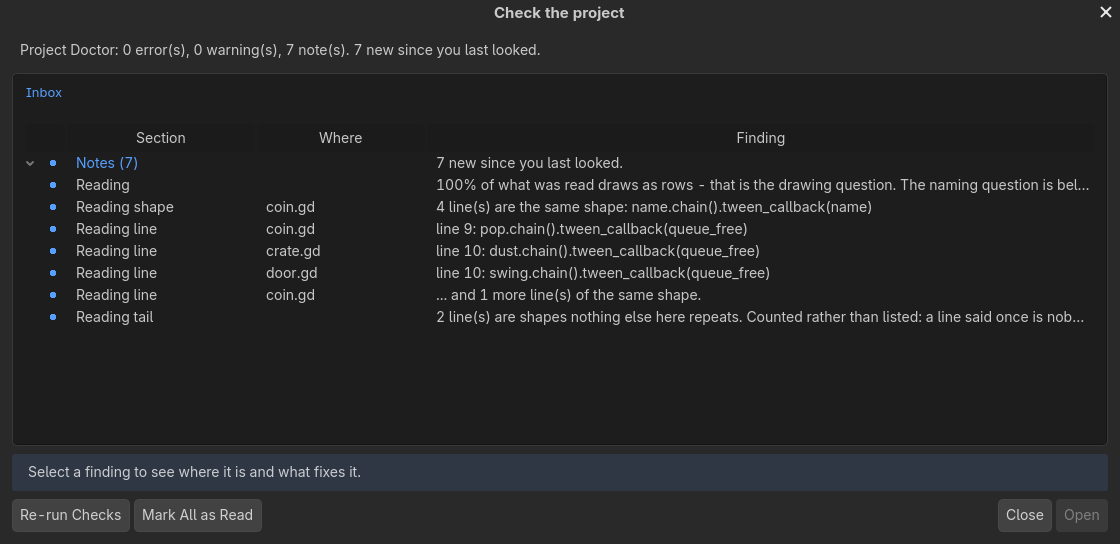
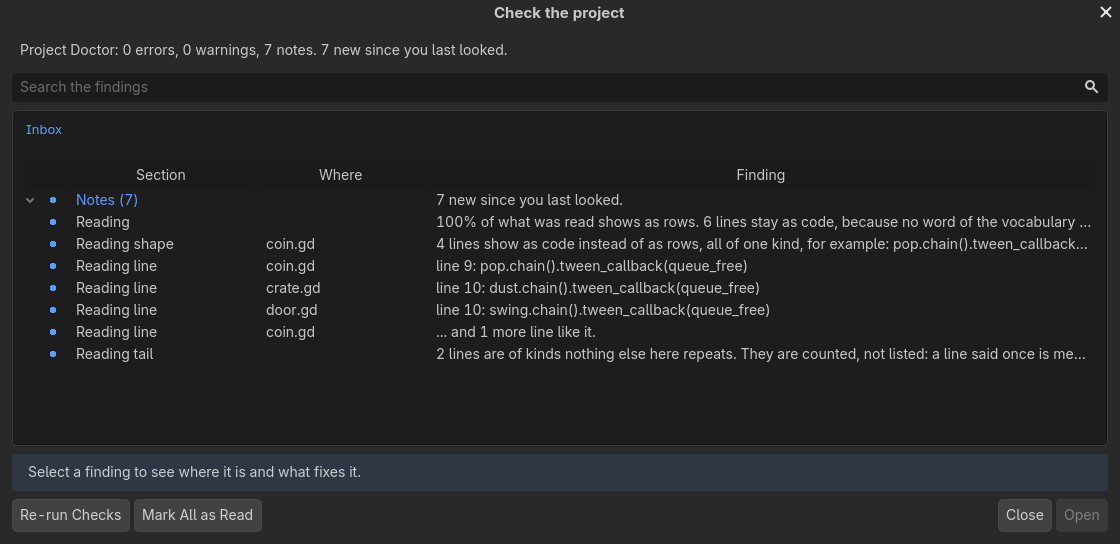
fix(doctor): the Reading findings and the window's summary read as sentences, with the first real line as the example
A shape finding now says how many lines show as code instead of as rows and quotes the first line of the file, instead of a placeholder pattern. The counts agree with one and many in all nine languages, the Interop line says what its percentage is of and counts functions apart so it cannot be read against itself, and the window's summary line reads '2 errors, 3 warnings, 1 note'. The command-line verdict line is unchanged, and a finding is remembered as read by what it is about, not by its wording. The picture of the Reading page is retaken.

diff --git a/CHANGELOG.md b/CHANGELOG.md
@@ -4,6 +4,10 @@ The work not yet released is listed first, under `[Unreleased]`. Each released v
 
 ## [Unreleased]
 
+### Changed: the Reading findings are written as sentences
+
+A shape finding now says how many lines show as code instead of as rows and quotes the first real line as the example, instead of a placeholder pattern; "more like it" and the tail counts agree with one and many in all nine languages. The Interop line no longer sets "100%" beside "still code": it says what share of its lines show as rows and, separately, how many functions are shown as rows and how many are kept as code blocks. The window's summary line reads "2 errors, 3 warnings, 1 note". The command-line verdict line is unchanged. Findings are remembered as read by what they are about, not by their wording, so nothing reworded is reported as new.
+
 ### Changed: the tutorials read in the editor's language in the Start window and the Manual
 
 The Learn column of the Start window listed the tutorials in English in a translated editor, because their titles and leads were data with no translation rows. All nine tutorial titles and one-line leads, and the minutes and step lines ("5 min", "step 2 of 6"), now have a row in the template and a real translation in all eight languages (the wording of the neighbouring rows: event, sheet, behaviour, action, condition, function). The same title is shown by the Start window, the Manual's contents list, the list of tutorials, a tutorial's own heading and caption, and the breadcrumb, so a title is never in one language one click later. The Manual's search now finds a tutorial by its title in the editor's language and by the English one. A tutorial added later with no row reads in English, never as a key. The step texts inside a tutorial stay English (about 1,600 words in 50 steps across the nine tutorials). A new test pins a row for every title and lead in all nine files.

diff --git a/addons/eventsheet/help/GUIDE-HOW-CODE-READS.md b/addons/eventsheet/help/GUIDE-HOW-CODE-READS.md
@@ -118,7 +118,12 @@ same file see the same rows.
 is a ledger: what the lines nothing claims actually look like, so that deciding where the next
 curated table would pay is a matter of reading rather than of guessing.
 
-![The Project Doctor's Reading section as rows of Section, Where and Finding: a head line reading 100% of what was read draws as rows with the naming question below it, a Reading shape line saying four lines are the same shape name.chain().tween_callback(name), three Reading line doors naming coin.gd, crate.gd and door.gd with the statement each holds, one saying how many more lines of that shape there are, and a Reading tail counting the shapes nothing else repeats](images/doctor-reading-page.png)
+![The Project Doctor's Check the project window with its search box above the list and the Reading section as rows of Section, Where and Finding: a head line saying 100% of what was read shows as rows and 6 lines stay as code, a Reading shape line saying 4 lines show as code instead of as rows with pop.chain().tween_callback(queue_free) as the example, three Reading line findings naming coin.gd, crate.gd and door.gd with the statement each holds, one saying 1 more line like it, and a Reading tail counting the 2 lines of a kind nothing else repeats](images/doctor-reading-page.png)
+
+Opening a Reading line finding opens its script as a sheet with the row that holds that line selected.
+The window's search box (Ctrl+F) narrows the ledger, or any other page of findings, to the findings
+whose section, file or wording hold the words you type; Escape empties the box, and closes the window
+once it is already empty.
 
 **Two numbers, said apart on purpose.** The head number is the project's reads-as percentage: the
 *drawing* question, how much of a file the canvas shows as rows rather than as a wall of code. On

diff --git a/docs/GUIDE-HOW-CODE-READS.md b/docs/GUIDE-HOW-CODE-READS.md
@@ -118,7 +118,12 @@ same file see the same rows.
 is a ledger: what the lines nothing claims actually look like, so that deciding where the next
 curated table would pay is a matter of reading rather than of guessing.
 
-![The Project Doctor's Reading section as rows of Section, Where and Finding: a head line reading 100% of what was read draws as rows with the naming question below it, a Reading shape line saying four lines are the same shape name.chain().tween_callback(name), three Reading line doors naming coin.gd, crate.gd and door.gd with the statement each holds, one saying how many more lines of that shape there are, and a Reading tail counting the shapes nothing else repeats](images/doctor-reading-page.png)
+![The Project Doctor's Check the project window with its search box above the list and the Reading section as rows of Section, Where and Finding: a head line saying 100% of what was read shows as rows and 6 lines stay as code, a Reading shape line saying 4 lines show as code instead of as rows with pop.chain().tween_callback(queue_free) as the example, three Reading line findings naming coin.gd, crate.gd and door.gd with the statement each holds, one saying 1 more line like it, and a Reading tail counting the 2 lines of a kind nothing else repeats](images/doctor-reading-page.png)
+
+Opening a Reading line finding opens its script as a sheet with the row that holds that line selected.
+The window's search box (Ctrl+F) narrows the ledger, or any other page of findings, to the findings
+whose section, file or wording hold the words you type; Escape empties the box, and closes the window
+once it is already empty.
 
 **Two numbers, said apart on purpose.** The head number is the project's reads-as percentage: the
 *drawing* question, how much of a file the canvas shows as rows rather than as a wall of code. On
